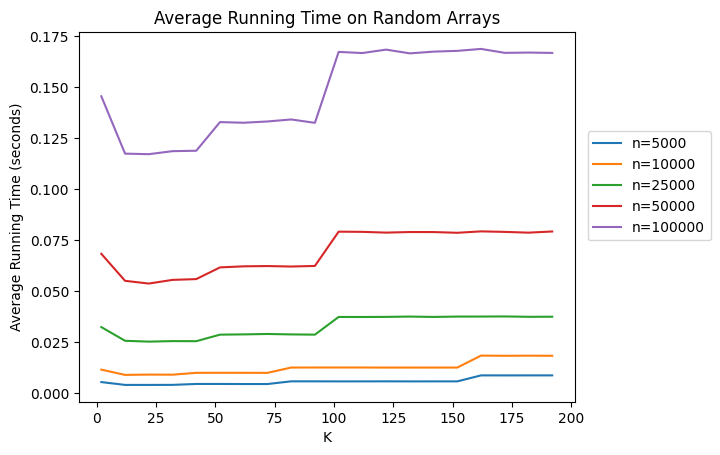
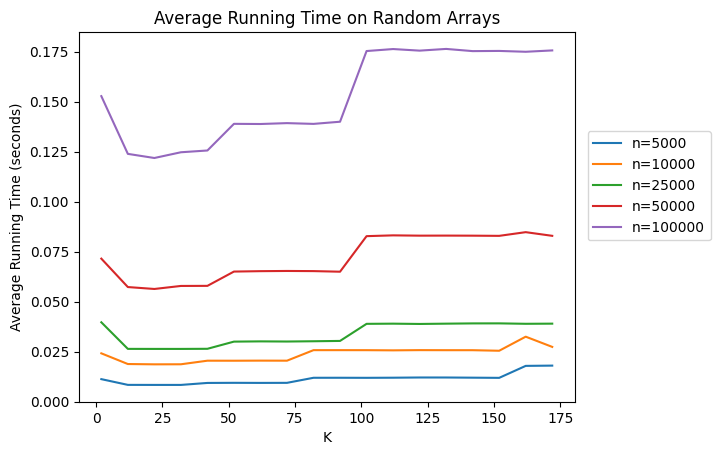
changed some parameters to find a more behaved plot

diff --git a/Project2/project2.py b/Project2/project2.py
@@ -103,7 +103,7 @@ print("Test Results successfully written to file: test.txt")
 # ***Deliverable 2***
 
 # Function to run time experiments
-def run_time_experiment(K_values, n_values, num_trials=5, sorted_input=False):
+def run_time_experiment(K_values, n_values, num_trials=10, sorted_input=False):
     avg_times = {n: [] for n in n_values} # dictionary to hold test times
     for n in n_values:
         for K in K_values:
@@ -139,10 +139,11 @@ def plot_optimal_k(optimal_ks, n_values, filename):
     plt.close()
 
 # Experiment settings
-K_values = list(range(2, 201, 10))  # K from 2 to 200 with step size 10
+K_values = list(range(2, 173, 10))  # K from 2 to 200 with step size 10
 n_values = [5000, 10000, 25000, 50000, 100000]  # Array lengths
 
 # Run experiments on random arrays
+print("Running Tests. Warning - this could take a minute or two.")
 avg_times_random = run_time_experiment(K_values, n_values)
 
 # Save the plot for random array results
